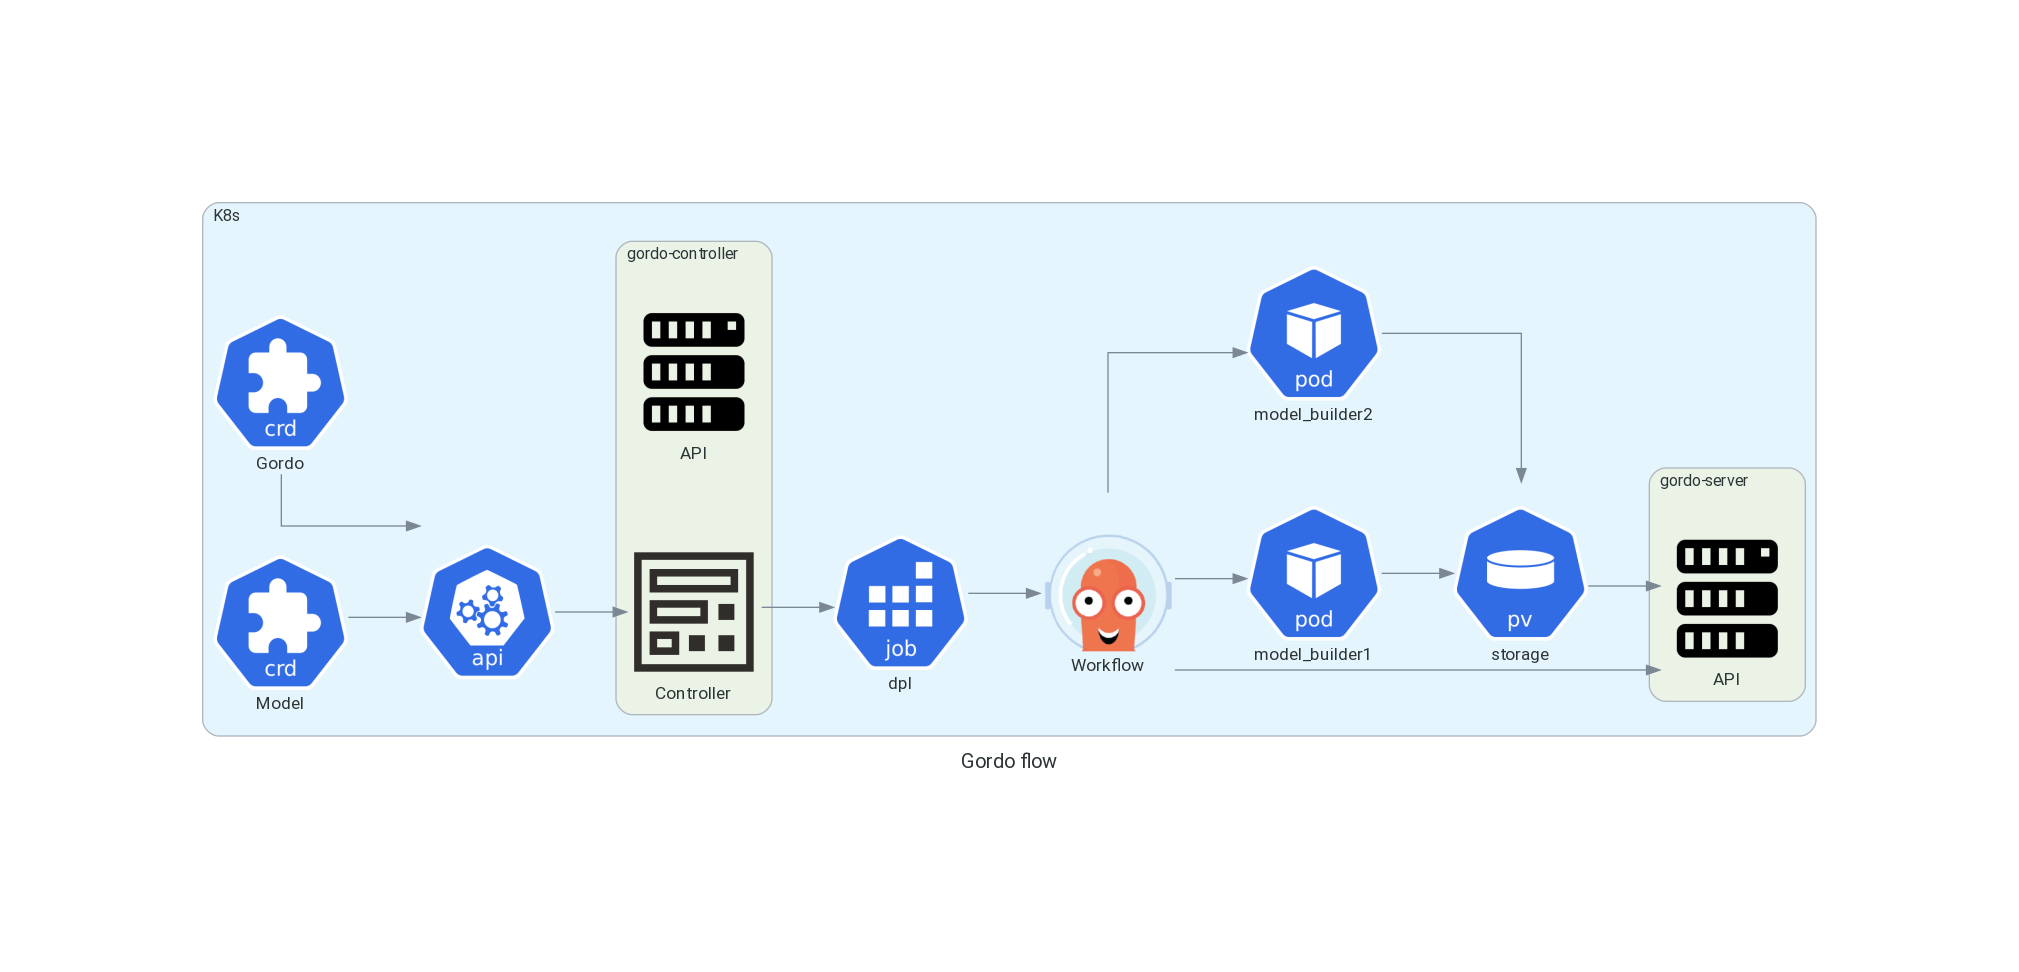
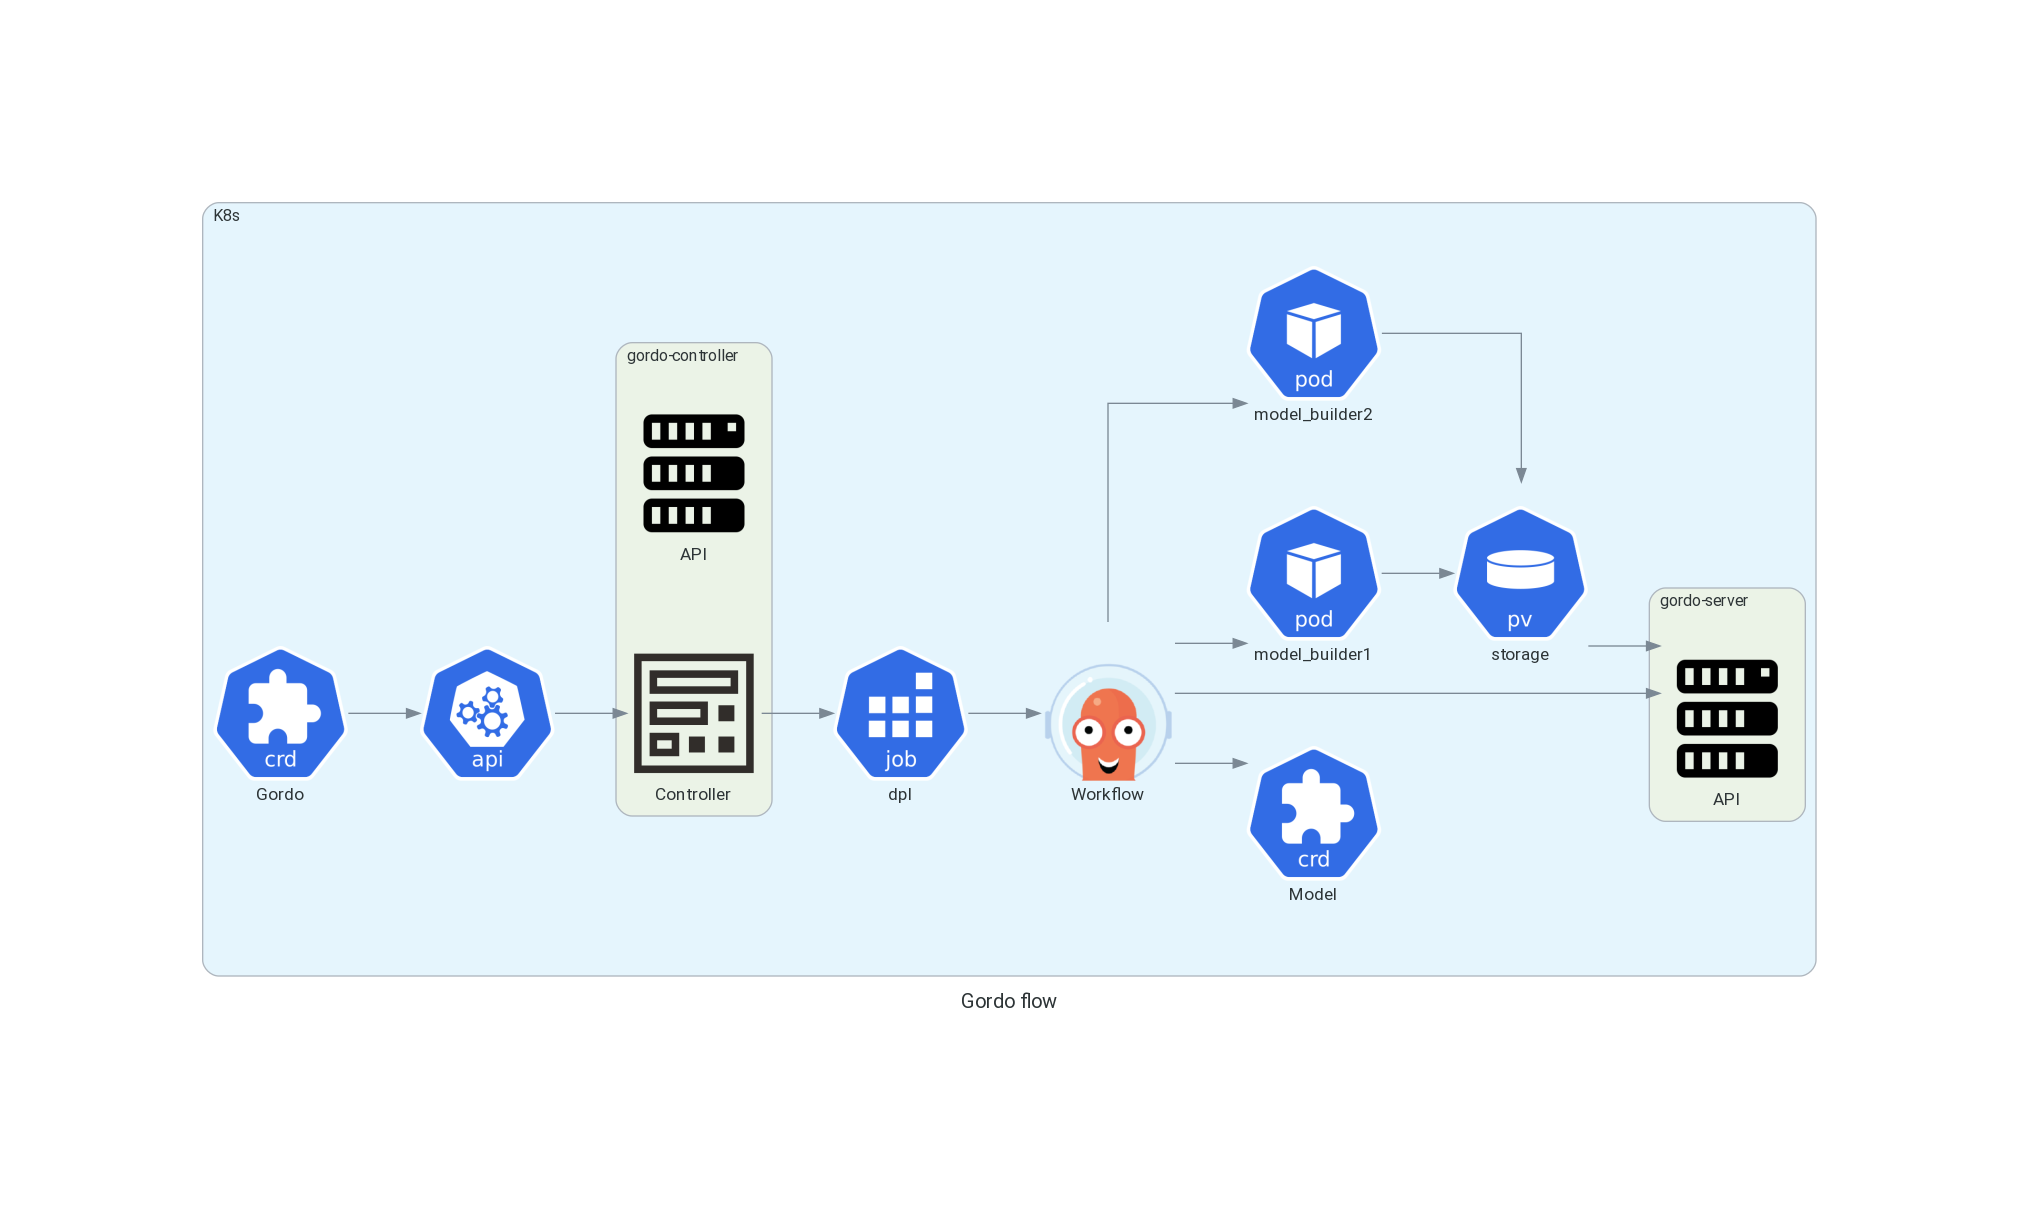
Last changes

diff --git a/docs/_static/architecture_diagram.py b/docs/_static/architecture_diagram.py
@@ -14,7 +14,6 @@ directory=os.path.dirname(__file__)
 with Diagram("Gordo flow", filename=os.path.join(directory, "architecture_diagram"), outformat="png", show=False) as diag:
     with Cluster("K8s"):
         gordo = CRD("Gordo")
-        model = CRD("Model")
         api = API("")
         with Cluster("gordo-controller"):
             Server("API")
@@ -23,11 +22,12 @@ with Diagram("Gordo flow", filename=os.path.join(directory, "architecture_diagra
             server_api = Server("API")
         dpl_job = Job("dpl")
         workflow = Custom("Workflow", os.path.join(directory, "./argo_logo.png"))
+        model = CRD("Model")
         gordo_volume = PV("storage")
         model_builder1 = Pod("model_builder1")
         model_builder2 = Pod("model_builder2")
     gordo >> api
-    model >> api
+    workflow >> model
     api >> controller
     controller >> dpl_job
     dpl_job >> workflow

diff --git a/docs/conf.py b/docs/conf.py
@@ -12,7 +12,8 @@ import datetime
 import importlib
 import inspect
 
-sys.path.insert(0, os.path.abspath(".."))
+_module_path = os.path.join(os.path.dirname(__file__), "..")
+sys.path.insert(0, _module_path)
 
 import gordo
 

diff --git a/docs/general/model_output.rst b/docs/general/model_output.rst
@@ -1,16 +1,12 @@
-Model live output and metrics
------------------------------
-
-
-A Gordo model is typically of the class `\ ``DiffBasedAnomalyDetector`` <https://github.com/equinor/gordo/blob/master/gordo/machine/model/anomaly/diff.py>`_.
-This is the class that is initiated to both train/fit a model and later is used to gain predictions.
-
-We will focus on the output that is created using the ``.anomaly()``\ -method, which is used when using the model for predictions.
-
 Model output
 ------------
 
-Predictions are created based on input matrix $X$, and a known output $Y$, which in most cases of the default auto-encoder is simply $Y=X$.
+A Gordo model is typically of the class :class:`gordo.machine.model.anomaly.diff.DiffBasedAnomalyDetector`.
+This is the class that is initiated to both train/fit a model and later is used to gain predictions.
+
+We will focus on the output that is created using the ``AnomalyDetectorBase.anomaly()`` - method, which is used when using the model for predictions.
+
+Predictions are created based on input matrix :math:`X`, and a known output :math:`Y`, which in most cases of the default auto-encoder is simply :math:`Y=X`.
 Based on these values, the following is returned for $n$ observations and $m$ input variables:
 
 .. list-table::
@@ -34,7 +30,7 @@ Based on these values, the following is returned for $n$ observations and $m$ in
      - n x m
    * - ``total-anomaly-scaled``
      - Mean squared error
-     - :math:`MSE\ *i^s=\frac{1}{m}\sum*\ {j=1}^{m}{r_j^s}^{2} \quad \forall i=(1,...,n)`
+     - :math:`\frac{1}{n}\sum_{j=1}^{n} {r_j^s}^{2} \quad \forall i=(1,...,n)`
      - n x 1
    * - ``tag-anomaly-unscaled``
      - Absolute residuals
@@ -42,7 +38,7 @@ Based on these values, the following is returned for $n$ observations and $m$ in
      - n x m 
    * - ``total-anomaly-unscaled``
      - Mean squared error
-     - :math:`MSE\ *i=\frac{1}{m}\sum*\ {j=1}^{m}r_j^{2} \quad \forall i=(1,...,n)`
+     - :math:`\frac{1}{n}\sum_{j=1}^n r_j^{2} \quad \forall i=(1,...,n)`
      - n x m
    * - ``anomaly-confidence``
      - Anomaly confidence each tag
@@ -73,12 +69,11 @@ Based on these values, the following is returned for $n$ observations and $m$ in
 Smoothed values
 ^^^^^^^^^^^^^^^
 
-All output variables with the ``smooth``\ -prefix are generated using the ``smoothing_method`` and ``window`` stated in the model configuration.
+All output variables with the ``smooth``-prefix are generated using the ``smoothing_method`` and ``window`` stated in the model configuration.
 If *both* are set to ``None``\ , the output is not produced.
 The ``window`` decides over how many points the smoothing should be considered.
 
 You can select one of the following methods:
-
 
 * ``smm`` simple moving median
 * ``sma`` simple moving average or
@@ -93,22 +88,21 @@ You can select one of the following methods:
 
 For given
 
+* start timestamp :math:`t_1`,
+* stop timestamp :math:`t_n` and
+* resolution :math:`r = \delta(t_i) =  t_i - t_{i-1}` (e.g. 10min),
 
-* start timestamp $t_1$,
-* stop timestamp $t_n$ and
-* resolution $r= \delta(t_i) =  t\ *i - t*\ {i-1}$ (e.g. 10min),
-
-the vector length of the dataset is $(t\ *{stop} - t*\ {start}) / r = n$.
+the vector length of the dataset is :math:`(t_{stop} - t_{start}) / r = n`.
 E.g. 24h / 10min = 144 for 24h of data.
 
-This means, that, using the default smoothing window of $w=144$, one must fetch 24h extra data *prior* to the considered time period, resulting in time series length $|T| = n + w$, with $T = \{ t\ *{-w}, ... , t*\ {1}, ..., t_{n} \}$.
+This means, that, using the default smoothing window of $w=144$, one must fetch 24h extra data *prior* to the considered time period, resulting in time series length :math:`|T| = n + w`, with :math:`T = \{ t_{-w}, ... , t_{1}, ..., t_{n} \}`.
 
-`Anomaly confidence <../anomaly_confidence>`_
-^^^^^^^^^^^^^^^^^^^^^^^^^^^^^^^^^^^^^^^^^^^^^^^^^
+Anomaly confidence
+^^^^^^^^^^^^^^^^^^
 
 During model training, cross validation is applied to the class instance through the ``.cross_validate()``\ -method.
 In this process, confidence thresholds are created for individual tags as well as for the complete model.
-The cross-validation scheme is explained in the `model evaluation and training metadata <../metadata>`_ section, and the calculation of the anomaly confidence itself is explained `here <../anomaly_confidence>`_.
+The cross-validation scheme is explained in the `model evaluation and training metadata <>` section, and the calculation of the anomaly confidence.
 
 Based on these thresholds, the following metrics are reported:
 

diff --git a/docs/general/model_configuration.rst b/docs/general/model_configuration.rst
@@ -5,7 +5,30 @@ Example of the Gordo model configuration:
 
 .. literalinclude:: ../../examples/model-configuration.yaml
 
-We can deserialize this configuration into a model object with using :mod:`gordo.serializer.serializer` module:
+We can deserialize this configuration into a model object with using :mod:`gordo.serializer.serializer` module.
+
+..
+    Commented temporory due to issue wierd exception:
+        File ~/gordo/docs/../gordo/machine/model/models.py:326, in KerasBaseEstimator.get_params(self, **params)
+            324 with open('get_params', 'a') as f:
+            325     f.write("before get_params call\n")
+        --> 326 params = super(BaseEstimator, self).get_params(**params)
+            327 with open('get_params', 'a') as f:
+            328     f.write("-----\n")
+        AttributeError: 'super' object has no attribute 'get_params'
+    .. ipython::
+
+        In [1]: import yaml
+
+        In [2]: with open('../examples/model-configuration.yaml', 'r') as f:
+           ...:     config=yaml.safe_load(f)
+           ...:
+
+        In [3]: from gordo.serializer import from_definition
+
+        In [4]: model=from_definition(config['model'])
+
+        In [5]: repr(model)
 
 A Gordo model is typically wrapped by the class :class:`gordo.machine.model.anomaly.diff.DiffBasedAnomalyDetector`.
 This class holds generic methods for model cross-validation, training and fitting.

diff --git a/docs/general/index.rst b/docs/general/index.rst
@@ -4,9 +4,8 @@ General
 .. toctree::
     :maxdepth: 2
 
-    ./quickstart.rst
     ./endpoints.rst
     ./cli.rst
     ./cluster_deployment.rst
     ./model_configuration.rst
-    ./metrics.rst
+    ./model_output.rst
